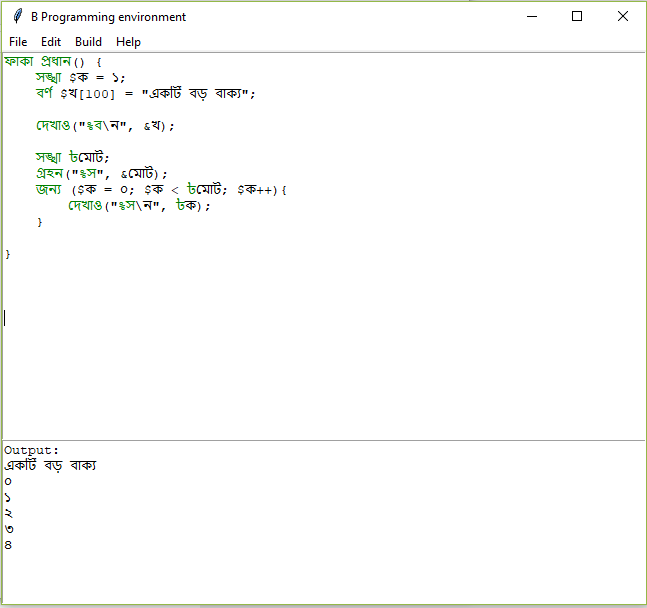
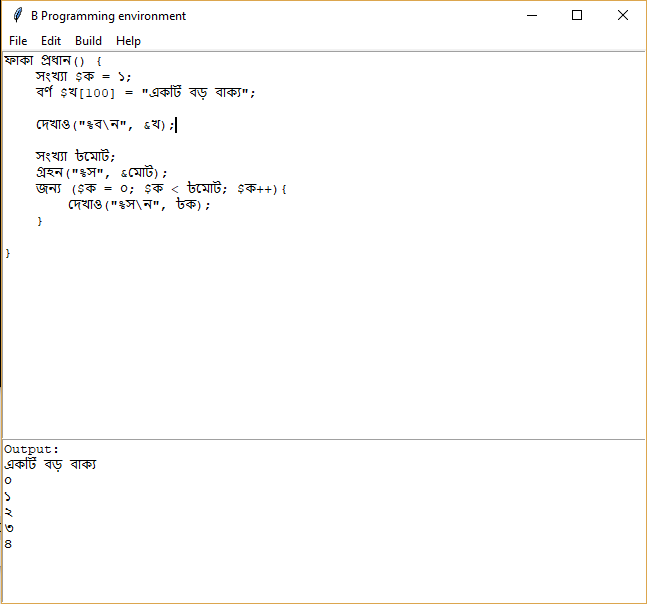
keyword spelling change

diff --git a/interprater.py b/interprater.py
@@ -57,7 +57,7 @@ def generate_c():
             "গ্রহন":"scanf",
             "ফাকা": "void",
             "দশমিক":"double",
-            "সঙ্খা": "int",
+            "সংখ্যা": "int",
             "বর্ণ" : "char",
             "%ব" : "%s",
             "%স" : "%d",

diff --git a/README.md b/README.md
@@ -33,7 +33,7 @@ Some key difference are
 গ্রহন ---> scanf<br>
 ফাকা --->  void<br>
 দশমিক ---> double<br>
-সঙ্খা --->  int<br>
+সংখ্যা --->  int<br>
 বর্ণ  --->  char<br>
 যতখন --->  while<br>
 কর --->  do<br>
@@ -45,5 +45,3 @@ Some key difference are
 %দ  --->  %lf<br>
 %চ  --->  %c<br>
 \ন  --->  \\n<br>
-
-
